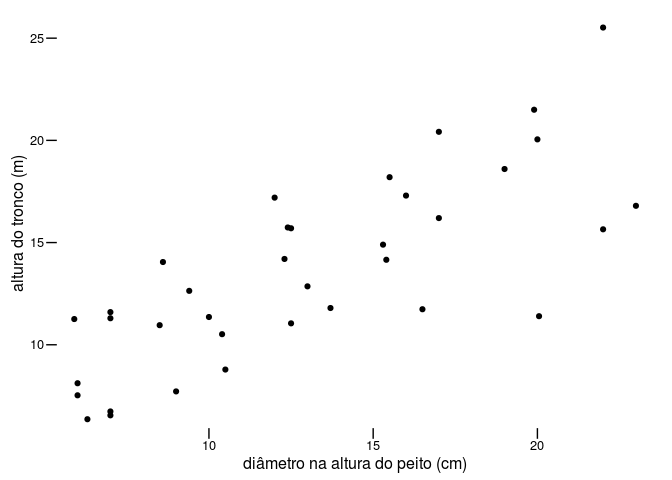
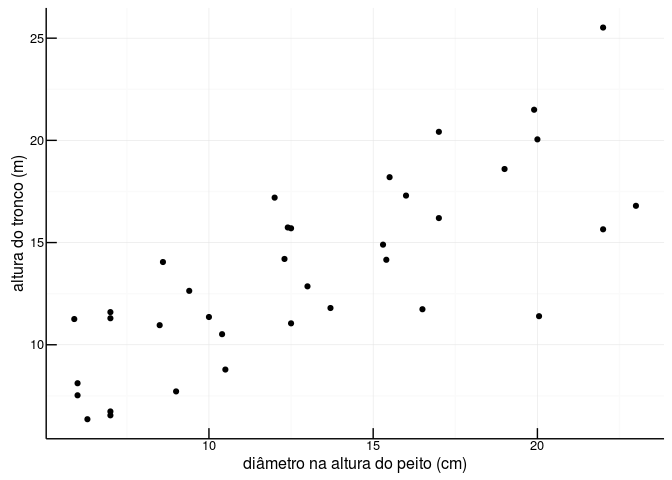
add workaround bug in theme_classic in ggplot2 2.1

Changed region(s): [[0.0625, 0.9062, 0.9688, 0.9375]]

diff --git a/exercicio_5_graficos.md b/exercicio_5_graficos.md
@@ -42,22 +42,21 @@ Crie um gráfico de dispersão entre `dap` e `ht` com:
 
 **2. Marcações do eixos (ticks) para dentro da área do gráfico**
 
-    p + 
+    p <- 
+      p + 
       theme_bw() + 
       theme(axis.ticks.length=unit(-8, "points"), 
             axis.text.x = element_text(margin = margin(t = 10)),
             axis.text.y = element_text(margin = margin(r = 10)))
 
-<img src="exercicio_5_graficos_files/figure-markdown_strict/unnamed-chunk-4-1.png" title="" alt="" style="display: block; margin: auto;" />
-
 **3. Apenas dois eixos (formato “L”)**
 
+    # there's a bug in theme_classic in ggplot2 2.1. Workaround:
+
     p <- p + 
-      theme_bw() + 
-      theme_classic() +
-      theme(axis.ticks.length = unit(-8, "points"), 
-            axis.text.x = element_text(margin = margin(t = 10)),
-            axis.text.y = element_text(margin = margin(r = 10)))
+      theme(panel.border= element_blank(),
+            axis.line.x = element_line(),
+            axis.line.y = element_line())
 
     p
 
@@ -184,36 +183,36 @@ Esse documento foi gerado com os seguintes pacotes:
 
     Packages ------------------------------------------------------------------
 
-     package      * version date       source        
-     acepack        1.3-3.3 2014-11-24 CRAN (R 3.2.2)
-     cluster        2.0.3   2015-07-21 CRAN (R 3.2.1)
-     colorspace     1.2-6   2015-03-11 CRAN (R 3.2.1)
-     devtools       1.10.0  2016-01-23 CRAN (R 3.2.3)
-     digest         0.6.9   2016-01-08 CRAN (R 3.2.3)
-     evaluate       0.8.3   2016-03-05 CRAN (R 3.2.3)
-     foreign        0.8-66  2015-08-19 CRAN (R 3.2.1)
-     formatR        1.2.1   2015-09-18 CRAN (R 3.2.1)
-     Formula        1.2-1   2015-04-07 CRAN (R 3.2.2)
-     ggplot2      * 2.1.0   2016-03-01 CRAN (R 3.2.3)
-     gridExtra      2.2.1   2016-02-29 CRAN (R 3.2.3)
-     gtable         0.2.0   2016-02-26 CRAN (R 3.2.3)
-     Hmisc          3.17-2  2016-02-21 CRAN (R 3.2.3)
-     htmltools      0.2.6   2014-09-08 CRAN (R 3.2.1)
-     knitr          1.12.3  2016-01-22 CRAN (R 3.2.3)
-     labeling       0.3     2014-08-23 CRAN (R 3.2.1)
-     lattice        0.20-33 2015-07-14 CRAN (R 3.2.1)
-     latticeExtra   0.6-26  2013-08-15 CRAN (R 3.2.2)
-     magrittr       1.5     2014-11-22 CRAN (R 3.2.1)
-     memoise        1.0.0   2016-01-29 CRAN (R 3.2.3)
-     munsell        0.4.3   2016-02-13 CRAN (R 3.2.3)
-     nnet           7.3-11  2015-08-30 CRAN (R 3.2.1)
-     plyr           1.8.3   2015-06-12 CRAN (R 3.1.1)
-     RColorBrewer   1.1-2   2014-12-07 CRAN (R 3.2.1)
-     Rcpp           0.12.3  2016-01-10 CRAN (R 3.2.3)
-     rmarkdown      0.9.5   2016-02-22 CRAN (R 3.2.3)
-     rpart          4.1-10  2015-06-29 CRAN (R 3.2.1)
-     scales         0.4.0   2016-02-26 CRAN (R 3.2.3)
-     stringi        1.0-1   2015-10-22 CRAN (R 3.2.2)
-     stringr        1.0.0   2015-04-30 CRAN (R 3.2.1)
-     survival       2.38-3  2015-07-02 CRAN (R 3.2.1)
+     package      * version date       source                         
+     acepack        1.3-3.3 2014-11-24 CRAN (R 3.2.2)                 
+     cluster        2.0.3   2015-07-21 CRAN (R 3.2.1)                 
+     colorspace     1.2-6   2015-03-11 CRAN (R 3.2.1)                 
+     devtools       1.10.0  2016-01-23 CRAN (R 3.2.3)                 
+     digest         0.6.9   2016-01-08 CRAN (R 3.2.3)                 
+     evaluate       0.8.3   2016-03-05 CRAN (R 3.2.3)                 
+     foreign        0.8-66  2015-08-19 CRAN (R 3.2.1)                 
+     formatR        1.2.1   2015-09-18 CRAN (R 3.2.1)                 
+     Formula        1.2-1   2015-04-07 CRAN (R 3.2.2)                 
+     ggplot2      * 2.1.0   2016-03-23 Github (hadley/ggplot2@59c503b)
+     gridExtra      2.2.1   2016-02-29 CRAN (R 3.2.3)                 
+     gtable         0.2.0   2016-02-26 CRAN (R 3.2.3)                 
+     Hmisc          3.17-2  2016-02-21 CRAN (R 3.2.3)                 
+     htmltools      0.2.6   2014-09-08 CRAN (R 3.2.1)                 
+     knitr          1.12.3  2016-01-22 CRAN (R 3.2.3)                 
+     labeling       0.3     2014-08-23 CRAN (R 3.2.1)                 
+     lattice        0.20-33 2015-07-14 CRAN (R 3.2.1)                 
+     latticeExtra   0.6-26  2013-08-15 CRAN (R 3.2.2)                 
+     magrittr       1.5     2014-11-22 CRAN (R 3.2.1)                 
+     memoise        1.0.0   2016-01-29 CRAN (R 3.2.3)                 
+     munsell        0.4.3   2016-02-13 CRAN (R 3.2.3)                 
+     nnet           7.3-11  2015-08-30 CRAN (R 3.2.1)                 
+     plyr           1.8.3   2015-06-12 CRAN (R 3.1.1)                 
+     RColorBrewer   1.1-2   2014-12-07 CRAN (R 3.2.1)                 
+     Rcpp           0.12.3  2016-01-10 CRAN (R 3.2.3)                 
+     rmarkdown      0.9.5   2016-02-22 CRAN (R 3.2.3)                 
+     rpart          4.1-10  2015-06-29 CRAN (R 3.2.1)                 
+     scales         0.4.0   2016-02-26 CRAN (R 3.2.3)                 
+     stringi        1.0-1   2015-10-22 CRAN (R 3.2.2)                 
+     stringr        1.0.0   2015-04-30 CRAN (R 3.2.1)                 
+     survival       2.38-3  2015-07-02 CRAN (R 3.2.1)                 
      yaml           2.1.13  2014-06-12 CRAN (R 3.2.1)
